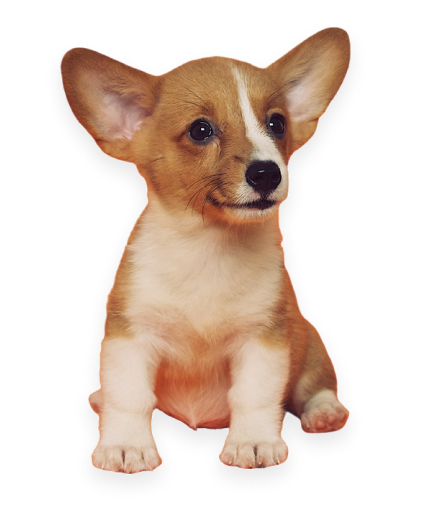
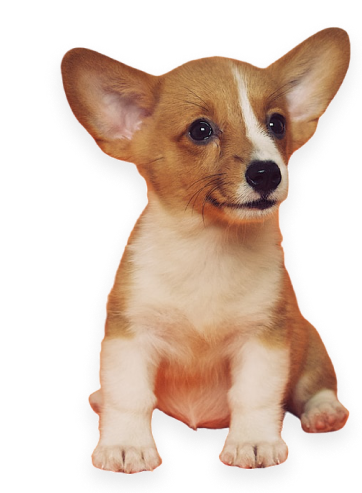
added

diff --git a/index.html b/index.html
@@ -104,7 +104,7 @@
           </div>
           <ul
             tabindex="0"
-            class="menu menu-sm dropdown-content bg-base-100 rounded-box z-[1] mt-3 w-25 p-2 shadow -ml-20" >
+            class="menu menu-sm dropdown-content bg-base-100 rounded-box z-30 mt-3 w-25 p-2 shadow -ml-20 bg-white" >
             <li><a>Find a Pet</a></li>
             <li><a>Breeds</a></li>
             <li><a>Contact Us</a></li>
@@ -136,7 +136,7 @@
 
   <main>
     <!-- Category Section -->
-     <section class="category_section container mx-auto lg:mt-32 md:mt-12 px-5 lg:px-0">
+     <section class="category_section container mx-auto lg:mt-32 md:mt-80 px-5 lg:px-0">
       <h2 class="section_title text-2xl">Browse By Categories</h2>
       <div class="category_card grid grid-cols-2 md:grid-cols-3 lg:grid-cols-6 gap-5 mt-9"> 
         <div class="card card_bg flex flex-col justify-center items-center p-5 need">
@@ -203,7 +203,7 @@
        <div class="product_card_container grid grid-cols-2 lg:grid-cols-5 gap-4 mt-10">
         <div class="product_left_card p-4 rounded-lg card_bg bg-no-repeat col-span-2 lg:col-span-2 lg:row-span-3">
           <div class="product_card_content lg:pl-7 lg:pt-5 md:pl-3 md:pt-3 space-y-4 mt-6 lg:mt-0">
-          <h2 class="section_title lg:text-4xl text-sm">T- Shirt For Dogs</h2>
+          <h2 class="section_title lg:text-4xl text-xl">T- Shirt For Dogs</h2>
           <p class="opacity-70 text-xs w-3/4 md:w-3/6">Discover a world of treats, toys, and essentials handpicked for </p>
           <button class="btn bg-white">Shop Now</button>
           </div>
@@ -346,8 +346,8 @@
           <p class="text-white font-semibold text-2xl hidden lg:block">(Easy Hair Removal)</p>
           <h2 class="text-4xl font-bold">$7.99</h2>
           </div>
-          <div class="product_image lg:w-[340px] w-[250px] ml-20 md:ml-28  lg:ml-0 -mt-9 lg:-mt-0">
-            <img src="c1-assets/cute-dog-mid.png" alt="" class="w-full">
+          <div class="product_image lg:w-[340px] w-[250px] ml-20 md:ml-24  lg:-ml-0 -mt-12 lg:-mt-0">
+            <img src="c1-assets/cute-dog-mid.png" alt="" class="w-11/12">
           </div>
         </div>
         <div class="left_price_card p-4 rounded-lg card_gradient2">
@@ -355,7 +355,7 @@
           <h2 class="section_title text-xl">T- Shirt For Dogs</h2>
           <h2 class="text-5xl font-bold yellow_text">$7.99</h2>
           </div>
-          <div class="product_image w-[250px] ml-18 lg:ml-32 lg:-mt-9 md:-mt-12 md:ml-20">
+          <div class="product_image w-[250px] ml-[70px] lg:ml-32 lg:-mt-9 md:-mt-12 md:ml-20">
             <img src="c1-assets/cute-pet-mid.png" alt="" class="pr-2">
           </div>
         </div>
@@ -363,7 +363,11 @@
      </section>
   </main>
 
+  <!----------------------- Footer Section-------------------- -->
 
+  <footer>
+    
+  </footer>
 
 
 </body>
